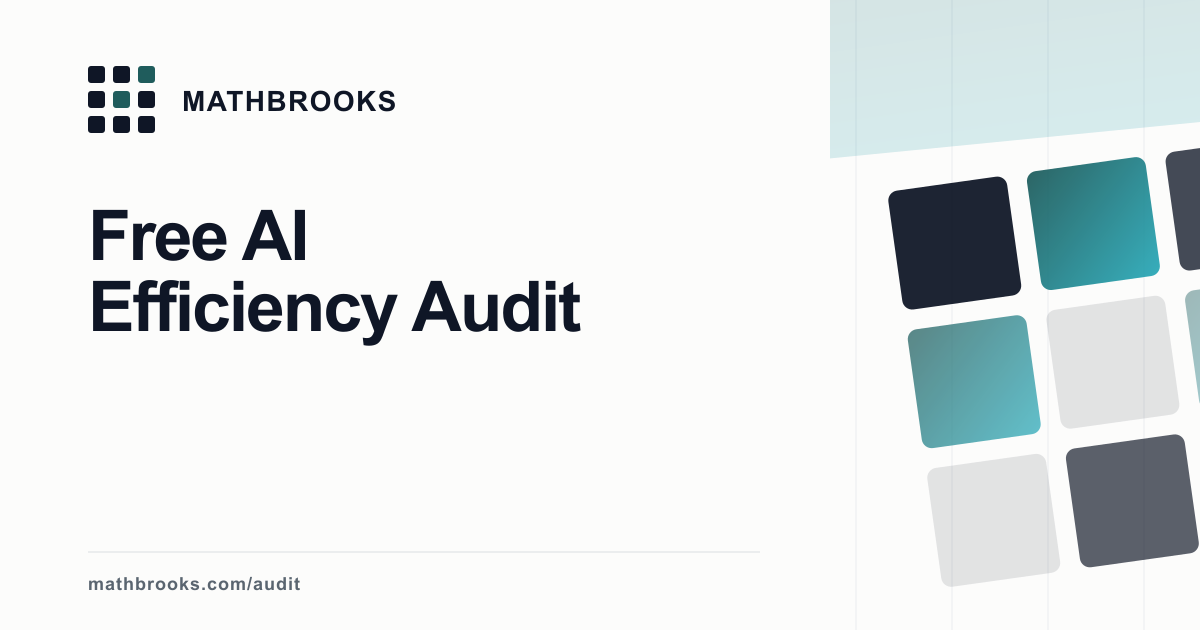
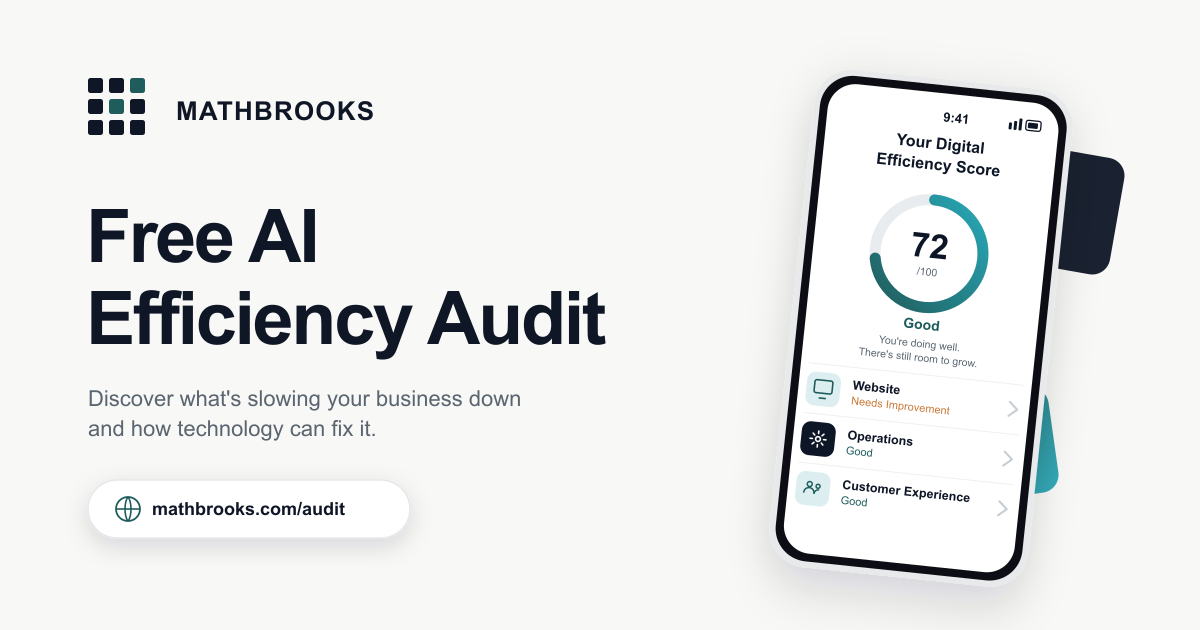
Replace /audit thumbnail with a bespoke phone-mockup design
The generic per-route card template didn't fit this page well, so
/audit gets its own generator (scripts/generate-audit-og.mjs) with a
tilted phone showing the efficiency score UI, headline, subtitle, and
URL pill — wired into npm run generate:og so it stays reproducible.

diff --git a/src/entry-server.tsx b/src/entry-server.tsx
@@ -39,11 +39,6 @@ export const socialImageEntries = [
     eyebrow: "MathBrooks insight",
     title: post.title,
   })),
-  {
-    path: "/audit",
-    output: "audit.png",
-    title: "Free AI\nEfficiency Audit",
-  },
 ];
 
 export const publishedProductPriceByPath = Object.fromEntries(
